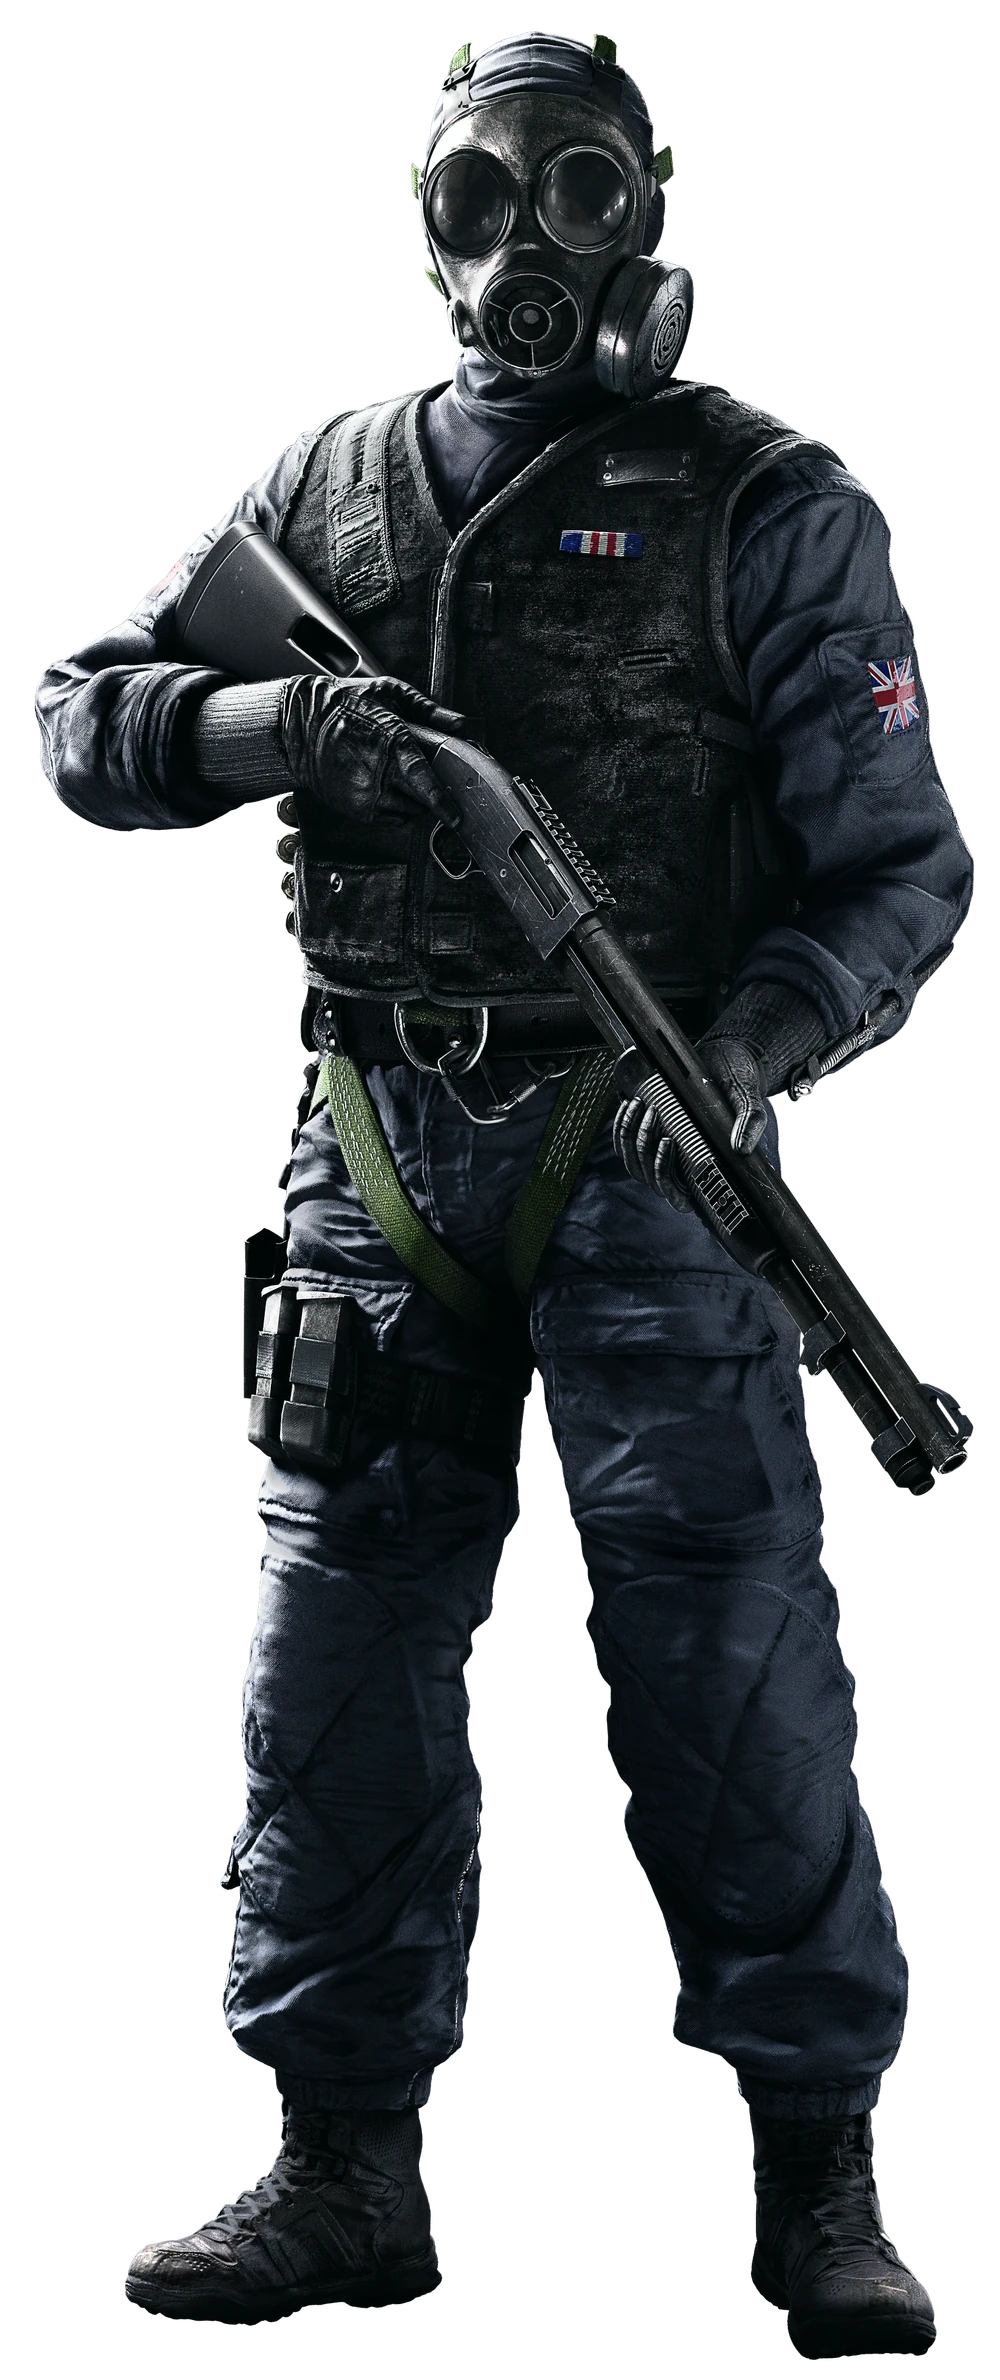
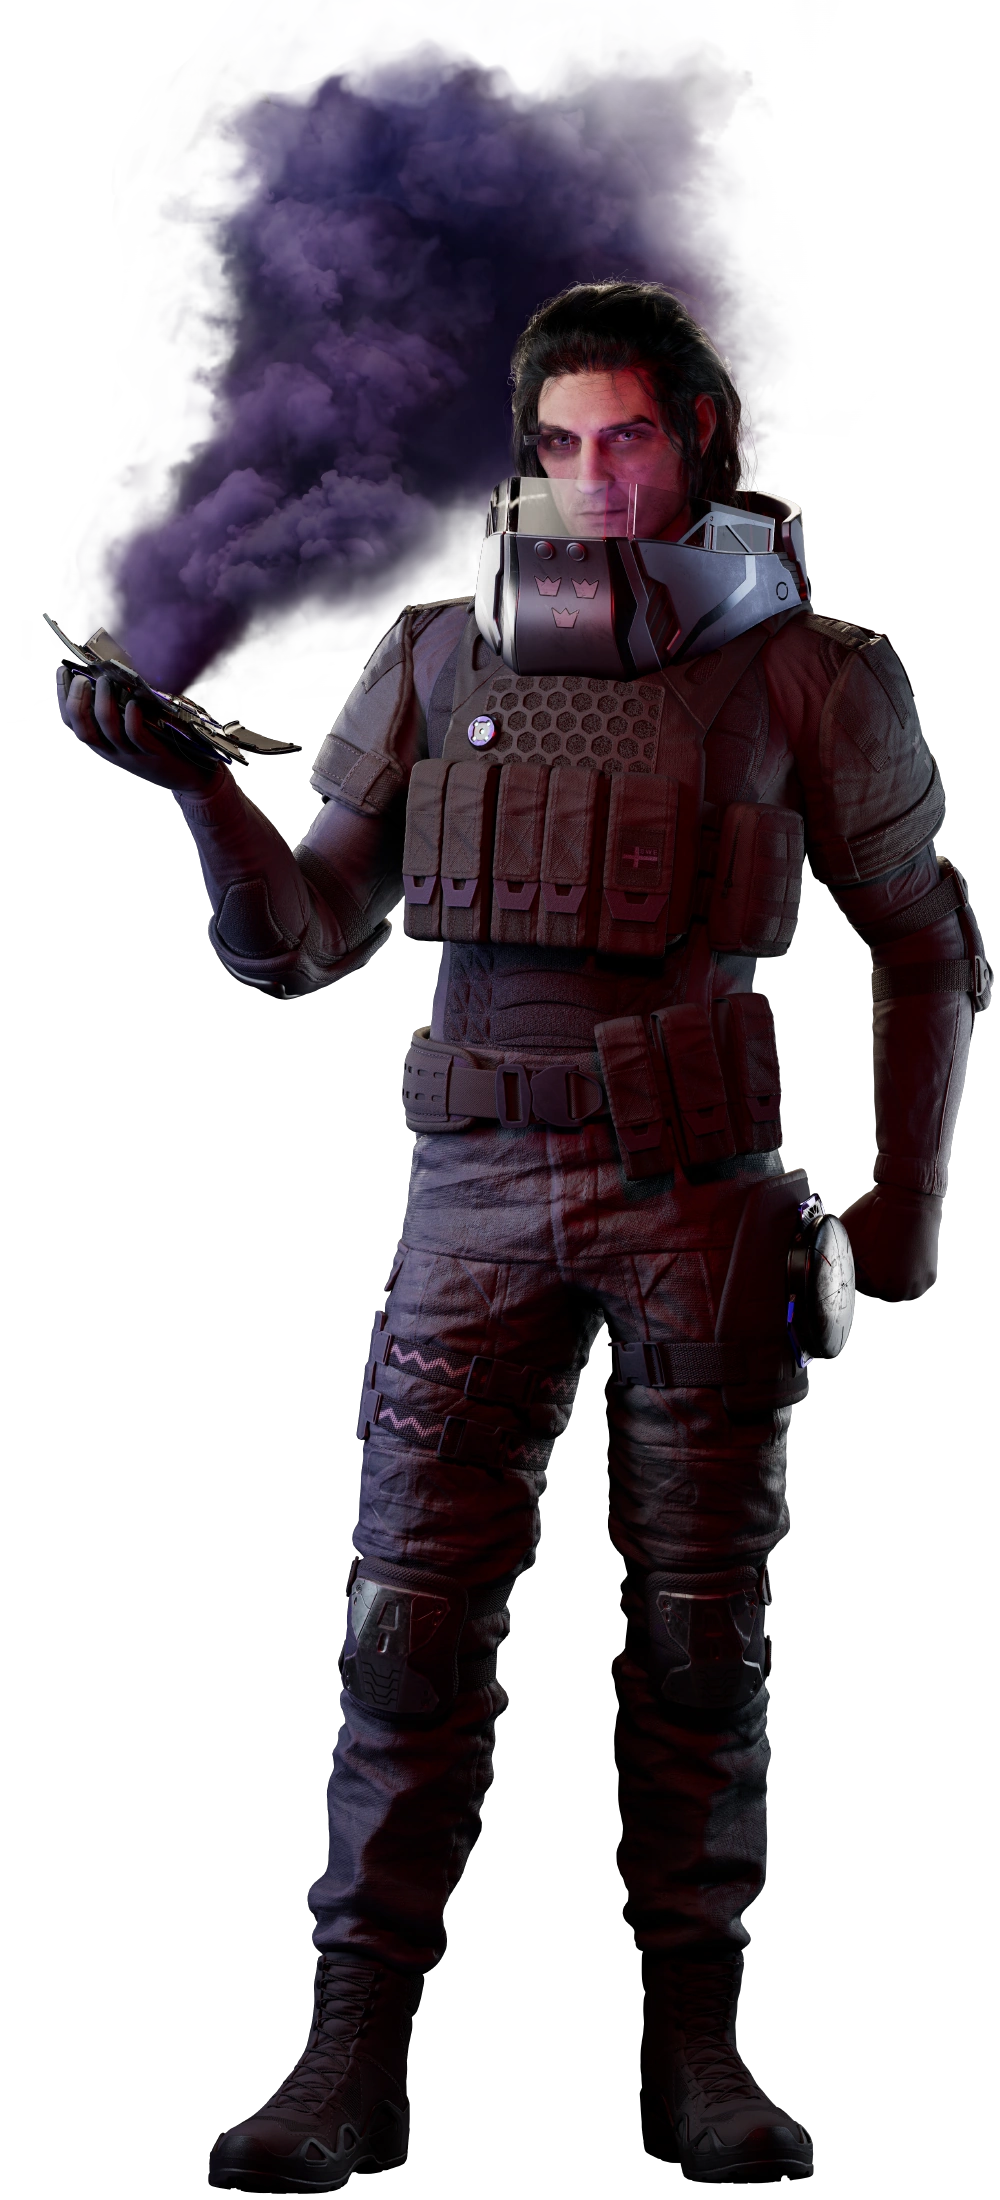
meow

diff --git a/r6x-randomizer/src/operatorMetadata.js b/r6x-randomizer/src/operatorMetadata.js
@@ -37,7 +37,7 @@ const operatorPictureMap = {
   "Ram": `${process.env.PUBLIC_URL}/assets/operators/pictures/Ram_R6_render.webp`,
   "Sens": `${process.env.PUBLIC_URL}/assets/operators/pictures/Sens_-_Full_Body.webp`,
   "Sledge": `${process.env.PUBLIC_URL}/assets/operators/pictures/Sledge_-_Full_Body.png`,
-  "Thatcher": `${process.env.PUBLIC_URL}/assets/operators/pictures/Thatcher_-_Full_Body.webp`,
+  "Thatcher": `${process.env.PUBLIC_URL}/assets/operators/pictures/THATCHER.png`,
   "Thermite": `${process.env.PUBLIC_URL}/assets/operators/pictures/Thermite_-_Full_Body.webp`,
   "Twitch": `${process.env.PUBLIC_URL}/assets/operators/pictures/Twitch_-_Full_Body.png`,
   "Ying": `${process.env.PUBLIC_URL}/assets/operators/pictures/Ying_-_Full_Body.webp`,
